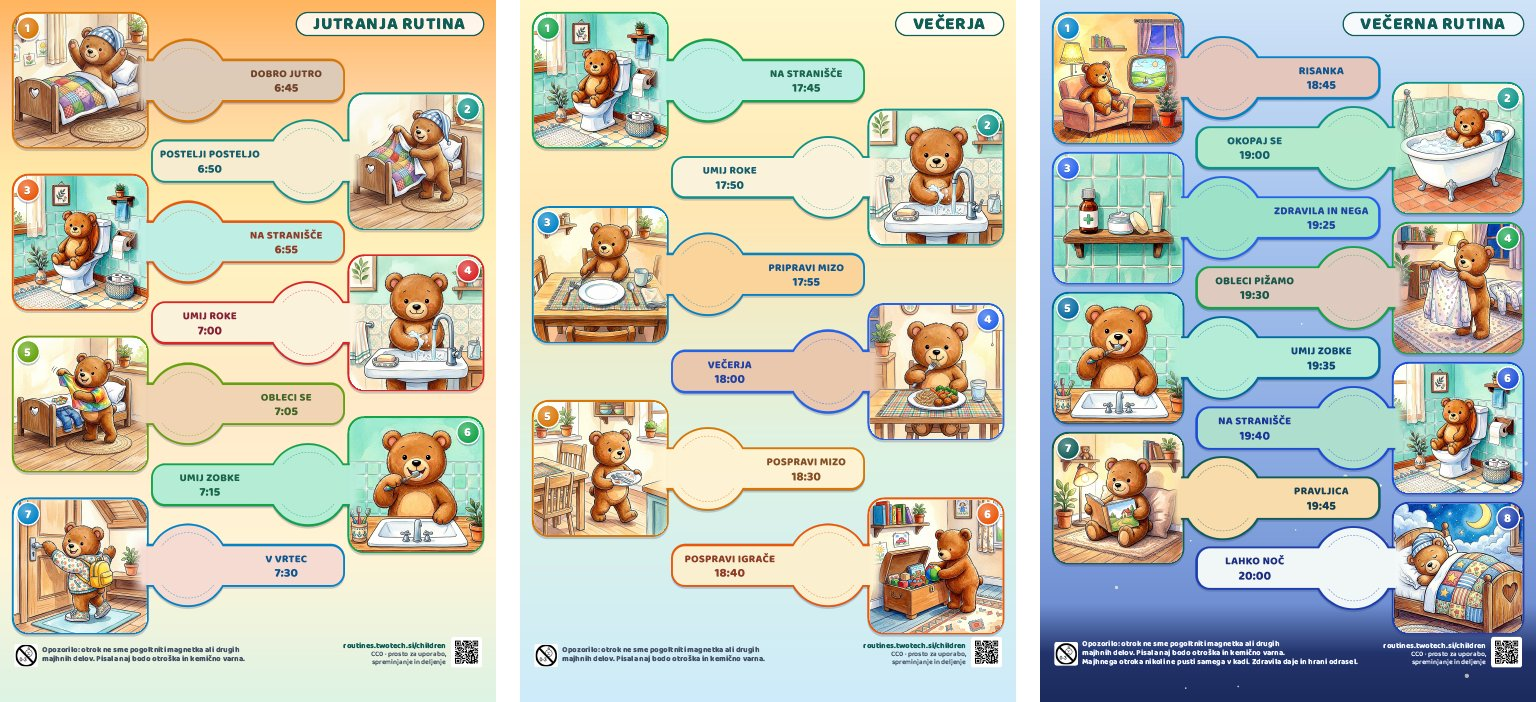
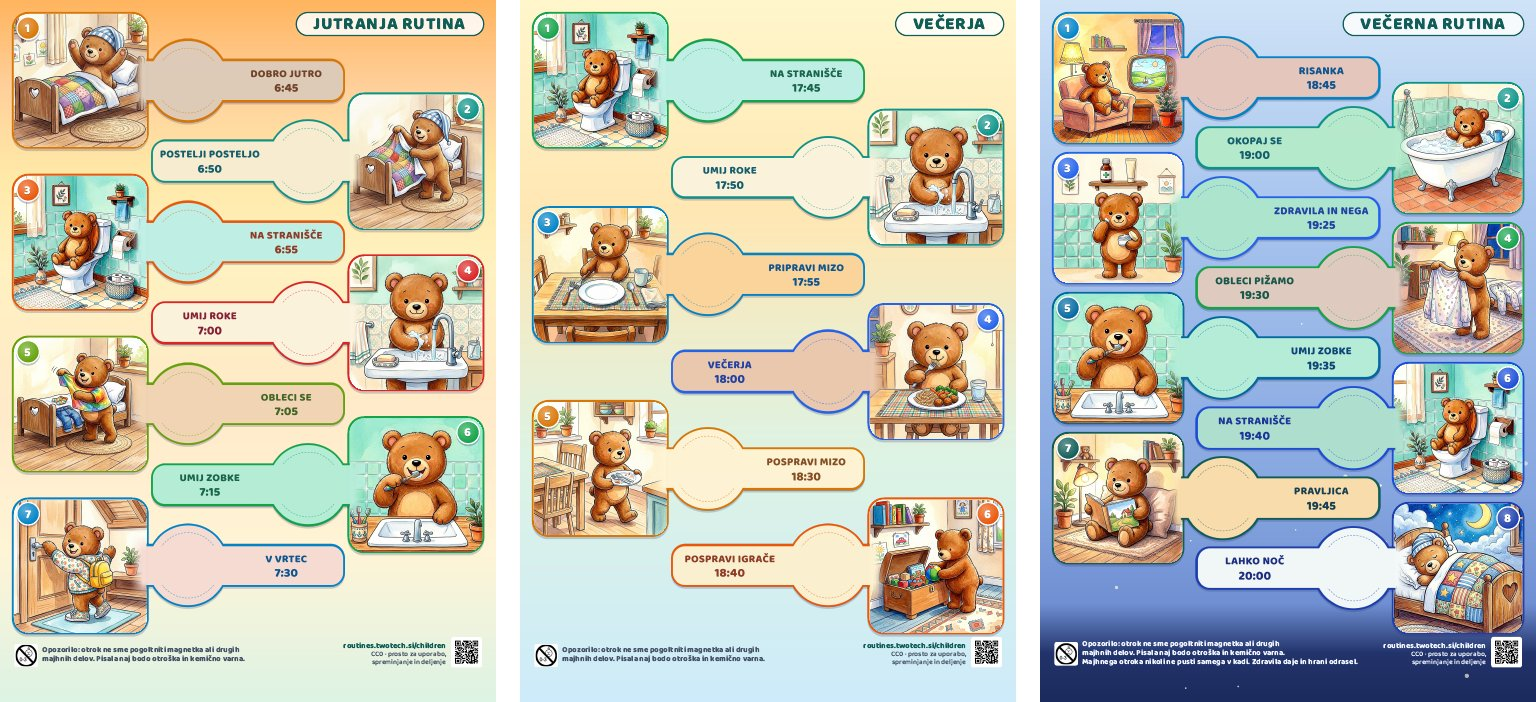
Bear variant of medicine and care: the bear dabs skin cream, the closed medicine bottle stands high on a shelf out of its reach
The bear theme had no bear in this step. The rule "objects only in both themes" becomes: no character holds or touches medicine (an adult gives it). Copyright: Google Lens, no exact matches on raw and final; visual matches only the same motif.

Changed region(s): [[0.6875, 0.2094, 0.7812, 0.4188]]

diff --git a/output/en-example.html b/output/en-example.html
@@ -455,11 +455,11 @@
         </div>
         <div class="rt-check"></div>
       </div>
-      <div class="rt-pic pic-left" style="--step: #2563EB; --bg: #9EE3CA; --ink: #2243A3; --y: 87.286mm;">
-        <img src="../images/care.jpg" alt="Medicine and care" />
+      <div class="rt-pic pic-left" style="--step: #2563EB; --bg: #AEE6CF; --ink: #2243A3; --y: 87.286mm;">
+        <img src="../images/care-bear.jpg" alt="Medicine and care" />
         <div class="rt-num">3</div>
       </div>
-      <div class="rt-card card-left" style="--step: #2563EB; --bg: #9EE3CA; --ink: #2243A3; --y: 87.286mm;">
+      <div class="rt-card card-left" style="--step: #2563EB; --bg: #AEE6CF; --ink: #2243A3; --y: 87.286mm;">
         <div class="rt-text">
           <div class="rt-label">MEDICINE AND CARE</div>
           <div class="rt-time">7:25 PM</div>

diff --git a/output/sl-primer.html b/output/sl-primer.html
@@ -444,11 +444,11 @@
         </div>
         <div class="rt-check"></div>
       </div>
-      <div class="rt-pic pic-left" style="--step: #2563EB; --bg: #9EE3CA; --ink: #2243A3; --y: 87.286mm;">
-        <img src="../images/care.jpg" alt="Zdravila in nega" />
+      <div class="rt-pic pic-left" style="--step: #2563EB; --bg: #AEE6CF; --ink: #2243A3; --y: 87.286mm;">
+        <img src="../images/care-bear.jpg" alt="Zdravila in nega" />
         <div class="rt-num">3</div>
       </div>
-      <div class="rt-card card-left" style="--step: #2563EB; --bg: #9EE3CA; --ink: #2243A3; --y: 87.286mm;">
+      <div class="rt-card card-left" style="--step: #2563EB; --bg: #AEE6CF; --ink: #2243A3; --y: 87.286mm;">
         <div class="rt-text">
           <div class="rt-label">ZDRAVILA IN NEGA</div>
           <div class="rt-time">19:25</div>

diff --git a/children/data.js b/children/data.js
@@ -177,6 +177,13 @@ window.SHEET_DATA = {
    },
    "theme": "bear"
   },
+  "care-bear": {
+   "title": "Teddy bear dabbing skin cream on its cheek, the closed medicine bottle high on a shelf out of its reach",
+   "label": {},
+   "keywords": {},
+   "theme": "bear",
+   "variant_of": "care"
+  },
   "care": {
    "title": "Medicine bottle with a green cross, cream jar and tube evenly arranged on a bathroom shelf",
    "label": {
@@ -1057,6 +1064,7 @@ window.SHEET_EDGES = {
   "brush-hair": ["#F9D7BE", "#FDF3DC"],
   "brush-teeth-plain": ["#CDEDE4", "#C6E9D2"],
   "brush-teeth": ["#B7EED8", "#B5EDD8"],
+  "care-bear": ["#AEE6CF", "#BDECD5"],
   "care": ["#9EE3CA", "#BAE9D2"],
   "cartoon-bear": ["#E7C7BE", "#FFFDAF"],
   "cartoon": ["#FAD9C2", "#FFFAC2"],

diff --git a/images/README.md b/images/README.md
@@ -8,7 +8,7 @@ Generated by `tools/build.py` from `images/<id>.json`; do not edit by hand. To a
 | <img src="breakfast-bear.jpg" width="120" alt="Teddy bear at the kitchen table taking a bite of buttered toast, with an apple and tea on the plaid placemat"> | <img src="breakfast.jpg" width="120" alt="Toast with butter, an apple and a cup of tea on the kitchen table"> | `breakfast-bear`<br>`breakfast` | Toast with butter, an apple and a cup of tea on the kitchen table | sl: zajtrk*, opecen*, toast, kruh*, jabolk*, caj, malic*<br>en: breakfast, toast, bread, apple, tea, snack | en-example: MORNING ROUTINE 6 |
 | <img src="brush-hair.jpg" width="120" alt="Teddy bear on a stool brushing the fur on its head with a wooden brush, in front of a round mirror"> | <img src="brush-hair-plain.jpg" width="120" alt="A child&#x27;s own hand lifting a wooden hairbrush in front of the dresser, seen through the child&#x27;s eyes"> | `brush-hair`<br>`brush-hair-plain` | Teddy bear on a stool brushing the fur on its head with a wooden brush, in front of a round mirror | sl: poces*, cesanj*, cesi se, lase, lasje, glavnik*<br>en: brush hair, brush your hair, comb*, hair* | — |
 | <img src="brush-teeth.jpg" width="120" alt="Teddy bear behind the bathroom sink, seen from the front, brushing its teeth"> | <img src="brush-teeth-plain.jpg" width="120" alt="A child&#x27;s own hand holding a toothbrush with toothpaste in the mint bathroom, seen through the child&#x27;s eyes"> | `brush-teeth`<br>`brush-teeth-plain` | Teddy bear behind the bathroom sink, seen from the front, brushing its teeth | sl: zob*, scetk*, krtack*<br>en: teeth, tooth*, brush teeth, brush your teeth | en-example: MORNING ROUTINE 7<br>en-example: EVENING ROUTINE 5<br>sl-primer: JUTRANJA RUTINA 6<br>sl-primer: VEČERNA RUTINA 5 |
-| — | <img src="care.jpg" width="120" alt="Medicine bottle with a green cross, cream jar and tube evenly arranged on a bathroom shelf"> | `care` | Medicine bottle with a green cross, cream jar and tube evenly arranged on a bathroom shelf | sl: zdravil*, sirup*, vitamin*, kapljic*, krem*, mazil*, nega, negovaln*, namaz*, maz*<br>en: medicine*, medication, syrup, vitamin*, drops, cream*, lotion, ointment, skin care | en-example: EVENING ROUTINE 3<br>sl-primer: VEČERNA RUTINA 3 |
+| <img src="care-bear.jpg" width="120" alt="Teddy bear dabbing skin cream on its cheek, the closed medicine bottle high on a shelf out of its reach"> | <img src="care.jpg" width="120" alt="Medicine bottle with a green cross, cream jar and tube evenly arranged on a bathroom shelf"> | `care-bear`<br>`care` | Medicine bottle with a green cross, cream jar and tube evenly arranged on a bathroom shelf | sl: zdravil*, sirup*, vitamin*, kapljic*, krem*, mazil*, nega, negovaln*, namaz*, maz*<br>en: medicine*, medication, syrup, vitamin*, drops, cream*, lotion, ointment, skin care | en-example: EVENING ROUTINE 3<br>sl-primer: VEČERNA RUTINA 3 |
 | <img src="cartoon-bear.jpg" width="120" alt="Teddy bear in an armchair watching a landscape with a sailboat on a rounded wooden TV"> | <img src="cartoon.jpg" width="120" alt="Wooden TV showing hills, a river and a sailboat, with lamp, flowering plant and window"> | `cartoon-bear`<br>`cartoon` | Wooden TV showing hills, a river and a sailboat, with lamp, flowering plant and window | sl: risank*, tv, televizij*, ekran*, film*<br>en: cartoon*, tv, television, screen time, show | en-example: EVENING ROUTINE 1<br>sl-primer: VEČERNA RUTINA 1 |
 | <img src="clear-table-bear.jpg" width="120" alt="Teddy bear carrying a used plate with cutlery from the table to the kitchen counter"> | <img src="clear-table.jpg" width="120" alt="Child&#x27;s hands carrying a used plate from the table"> | `clear-table-bear`<br>`clear-table` | Child's hands carrying a used plate from the table | sl: pospravi mizo, pospravljanje mize, odnesi krozni*<br>en: clear the table, clear table, clear up the table | en-example: DINNER 5<br>sl-primer: VEČERJA 5 |
 | <img src="dinner-bear.jpg" width="120" alt="Teddy bear at the kitchen table eating pasta, meatballs and vegetables with a fork"> | <img src="dinner.jpg" width="120" alt="Plate of pasta, meatballs, carrots and broccoli on the set-table placemat"> | `dinner-bear`<br>`dinner` | Plate of pasta, meatballs, carrots and broccoli on the set-table placemat | sl: vecerj*, jej, jemo, jest, obed*, kosil*, hrana<br>en: dinner, eat*, meal, supper, lunch | en-example: DINNER 4<br>sl-primer: VEČERJA 4 |

diff --git a/docs/PROMPTS.md b/docs/PROMPTS.md
@@ -23,7 +23,7 @@ Every routine image is a square 1:1 illustration generated with an image model. 
 - **Two picture themes.** The parent can pick one for the whole sheet in "Image group": the teddy bear (`"theme": "bear"`) or no character (`"plain"`); the default, "all pictures", keeps each step's own picture and shows the variants in the picker too. A step's image has one theme and may have a variant in the other (`"variant_of"`, without keywords or label of its own); without a variant the sheet shows the image it has.
   - Teddy bear: the same bear does the step (toilet and bath too).
   - No character: the child's own hands, in a child's-eye view entering from the bottom edge, where a child sees its own action (wash hands, set and clear the table, pajamas, getting dressed, spoon to the mouth, shoes, washcloth, hairbrush, quilt, toys into the chest); never disembodied hands from elsewhere. Otherwise only the room or the objects (toilet, bath; sleep: the bed at night; good morning: the bed in morning sun). Hug shows a grown-up and a child, faces visible (`hug-plain`): without faces, a hug of two people came out with extra arms, a headless grown-up or a child holding a sweater, never as a clear hug.
-  - Medicine and care show only the objects in both themes: an adult gives medicine.
+  - Medicine and care: an adult gives medicine, so no character ever holds or touches it. Without a character, only the objects; the bear applies skin cream, while the closed medicine bottle stands on a shelf high above it, out of its reach.
 - **Cloth obeys gravity.** Clothes, quilts and towels hang, drape and fold; they never stand stiff like a board. Do not show the child already wearing what it is putting on. Clothes alone do not act: an upright long-sleeved shirt with an empty neck reads as a headless person, not as a hug; show the people (faces out of the frame) or the bear instead.
 - **Count the limbs.** In every image, check each person and bear separately: exactly two arms and two legs, each attached to its own body. In a hug, the prompt says where each arm goes ("the child's two arms around the grown-up's middle, the grown-up's two arms around the child's back, no arm over a shoulder"). A changed image (closer view, faces removed) takes only a correct image as its reference: the model copies its mistakes into the next step.
 - **Same world.** Bath and teeth happen in the same bathroom as the toilet image; the same teddy bear appears in waking up, making the bed, tidying up and sleeping. It wears its striped nightcap only around sleep (good morning, make the bed, sleep); in other scenes it has no cap. Its face is the same everywhere: small solid black round button eyes with no white of the eye, a small black nose, a gentle smile. A fix to the shared room (tiles on both walls) goes into every picture of that room: compare them side by side.

diff --git a/docs/PROMPTS.sl.md b/docs/PROMPTS.sl.md
@@ -23,7 +23,7 @@ Vsaka slika rutine je kvadratna ilustracija 1 : 1, ustvarjena z modelom za slike
 - **Dve temi sličic.** Starš lahko v »Skupina slik« izbere eno za ves list: medvedek (`"theme": "bear"`) ali brez lika (`"plain"`); privzeto »vse slike« pusti vsakemu koraku njegovo sliko in v izbirniku pokaže tudi različice. Slika koraka ima eno temo in ima lahko različico v drugi (`"variant_of"`, brez lastnih ključnih besed in napisa); brez različice list pokaže sliko, ki jo ima.
   - Medvedek: korak opravi isti medvedek (tudi stranišče in kopel).
   - Brez lika: otrokove roke v pogledu z otrokovimi očmi, od spodnjega roba, kjer otrok svoje dejanje vidi sam (umij roke, pripravi in pospravi mizo, pižama, oblačenje, žlica k ustom, čevlji, krpica, krtača, odeja, igrače v skrinjo); nikoli roke brez telesa od drugod. Sicer le prostor ali predmeti (stranišče, kopel; spanje: postelja ponoči; dobro jutro: postelja v jutranjem soncu). Objem kaže odraslega in otroka z vidnima obrazoma (`hug-plain`): objem dveh oseb brez obrazov je dal odvečne roke, odraslega brez glave ali otroka, ki drži pulover, nikoli jasnega objema.
-  - Zdravila in nega kažejo v obeh temah le predmete: zdravilo daje odrasel.
+  - Zdravila in nega: zdravilo daje odrasel, zato ga noben lik ne drži in se ga ne dotika. Brez lika le predmeti; medvedek si maže kremo, zaprta steklenička zdravila pa stoji na polici visoko nad njim, zunaj njegovega dosega.
 - **Blago se podreja teži.** Oblačila, odeje in brisače visijo, se gubijo in polegajo; nikoli ne stojijo toge kot deska. Otrok ne nosi že tega, kar si oblači. Oblačila sama ne delajo: pokončna majica z dolgimi rokavi in prazno odprtino za vrat se bere kot človek brez glave, ne kot objem; namesto tega pokaži ljudi (obraze zunaj okvirja) ali medvedka.
 - **Preštej ude.** Na vsaki sliki preveri vsako osebo in medvedka posebej: natanko dve roki in dve nogi, vsaka pritrjena na svoje telo. Pri objemu navodilo pove, kam gre vsaka roka (»otrokovi roki okoli odraslega v pasu, odraslega roki okoli otrokovega hrbta, nobena roka čez ramo«). Spremenjena slika (bližji pogled, brez obrazov) dobi za vzorec le pravilno sliko: model njene napake prenese v naslednji korak.
 - **Isti svet.** Kopanje in zobki so v isti kopalnici kot stranišče; isti medvedek se zbuja, pospravlja posteljo, pospravlja igrače in spi. Progasto čepico nosi le ob spanju (dobro jutro, pospravi posteljo, spanje); drugod je brez nje. Obraz je povsod enak: majhne črne okrogle oči kot gumbki brez beline, majhen črn nos, blag nasmeh. Popravek skupnega prostora (ploščice na obeh stenah) gre v vse slike tega prostora: primerjaj jih drugo ob drugi.
